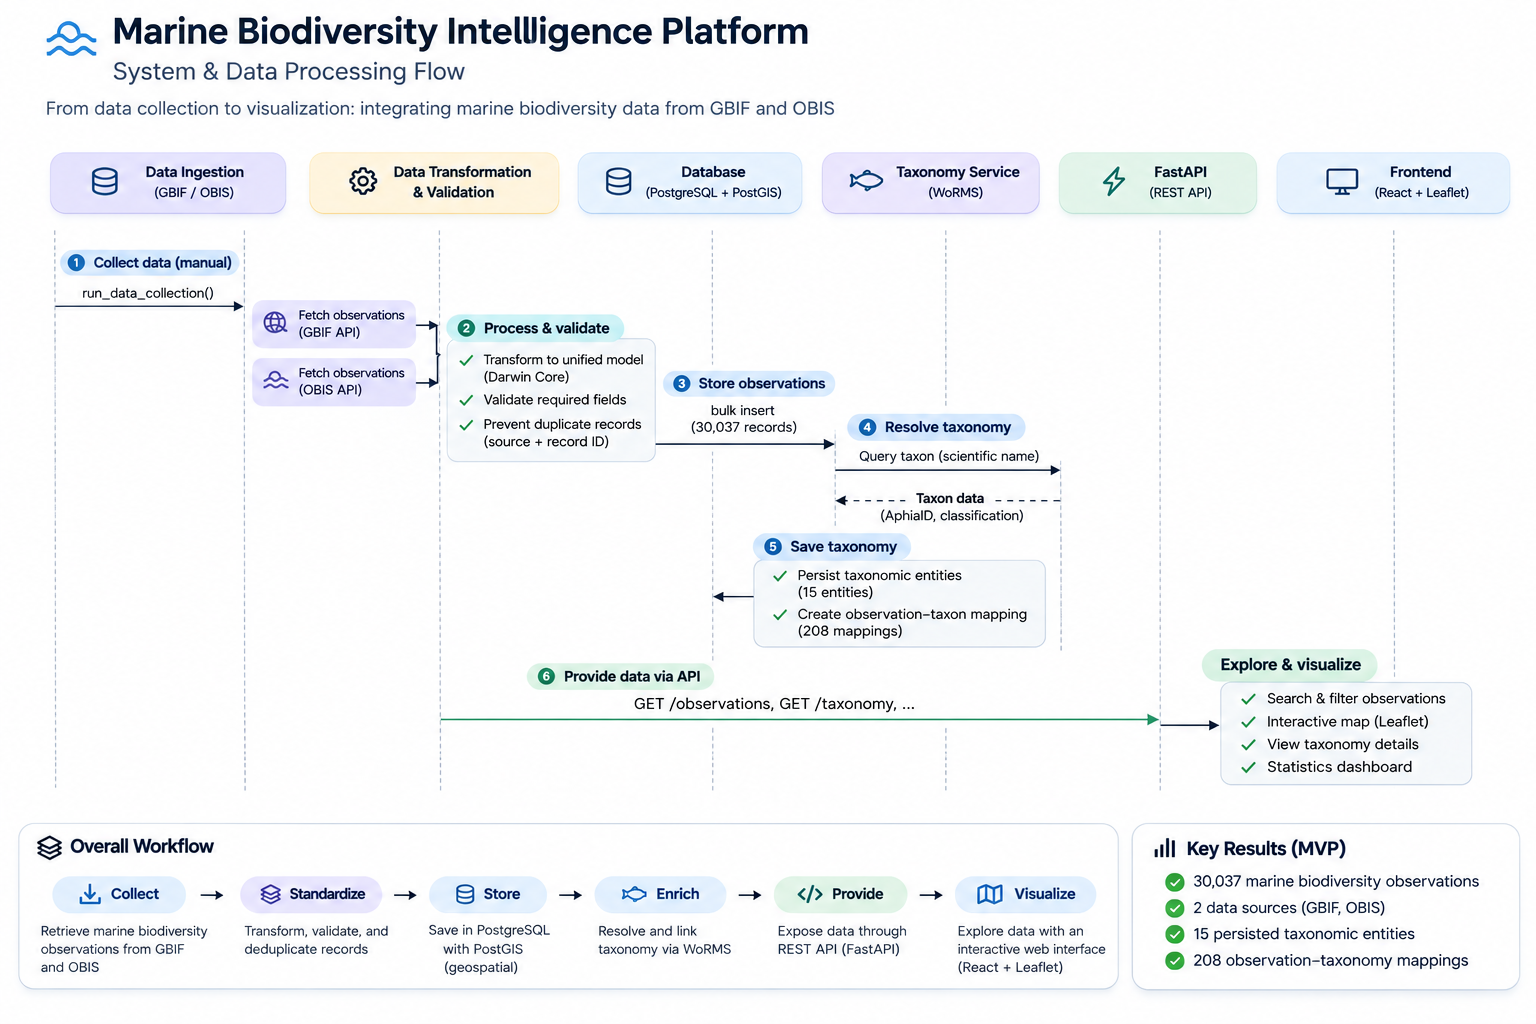
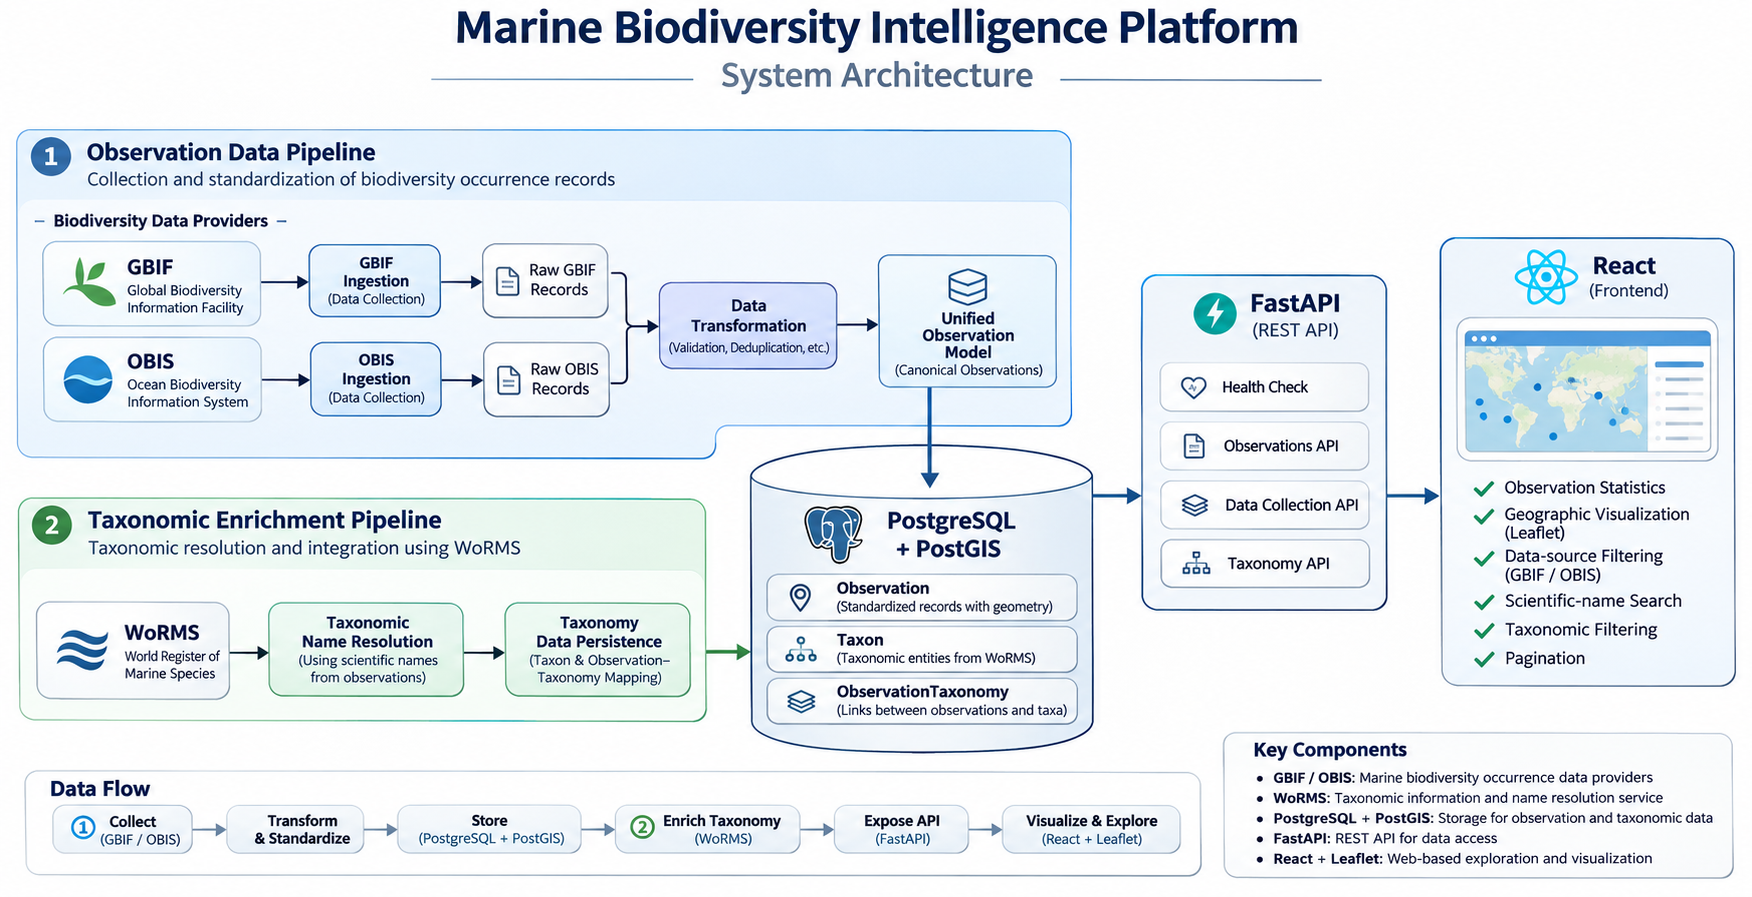
docs: update README and system architecture

Changed region(s): [[0.0, 0.0, 1.0, 0.9989], [0.6562, 0.2809, 0.7812, 0.3746], [0.0, 0.7492, 0.0312, 0.7804]]

diff --git a/README.md b/README.md
@@ -1,22 +1,20 @@
 # Marine Biodiversity Intelligence Platform
 
-An open-source platform for integrating, standardizing, exploring,
-and visualizing marine biodiversity observations.
+An open-source platform for integrating, standardizing, exploring, and visualizing marine biodiversity observations.
 
 ![System Architecture](docs/images/system-architecture.png)
-
 
 ## 1. Overview
 
 Marine biodiversity observations are distributed across multiple international databases, each with different data structures, identifiers, and taxonomic representations.
 
-The Marine Biodiversity Intelligence Platform addresses this fragmentation by providing a unified data integration pipeline.
+The Marine Biodiversity Intelligence Platform addresses this fragmentation by providing a unified data integration and visualization pipeline.
 
 The current implementation focuses on:
 
 - Collecting marine biodiversity observations from GBIF and OBIS.
 - Transforming source-specific records into a common observation model.
-- Preventing duplicate records through source-based identifiers.
+- Preventing duplicate records using source-based identifiers.
 - Storing observation and geospatial data in PostgreSQL with PostGIS.
 - Connecting observations with taxonomic information through WoRMS.
 - Exposing biodiversity data through REST APIs.
@@ -24,17 +22,21 @@ The current implementation focuses on:
 
 ## 2. Dataset Overview
 
-The current MVP database contains:
+The current MVP database contains the following records:
 
 | Metric | Value |
 |---|---:|
-| Total canonical observations | 30,037 |
+| Canonical observations | 30,037 |
 | GBIF raw records | 15,020 |
 | OBIS raw records | 15,020 |
 | Persisted taxonomic entities | 15 |
 | Observation-level taxonomy mappings | 208 |
 
-**Taxonomy data note:** The 15 taxonomic entities and 208 observation-level mappings represent a separately processed taxonomy subset, not the complete dataset of 30,037 observations.
+**Data interpretation note:**
+
+Raw records and canonical observations represent different stages of the data pipeline. Their counts are therefore reported separately.
+
+The 15 persisted taxonomic entities and 208 observation-level taxonomy mappings represent a separately processed subset of the observation dataset, not the complete collection of 30,037 canonical observations.
 
 ## 3. Key Features
 
@@ -42,10 +44,10 @@ The current MVP database contains:
 
 Integration of two major international biodiversity data providers:
 
-- GBIF — Global Biodiversity Information Facility
-- OBIS — Ocean Biodiversity Information System
+- **GBIF** — Global Biodiversity Information Facility
+- **OBIS** — Ocean Biodiversity Information System
 
-Source-specific ingestion services collect marine biodiversity observations and preserve their original records.
+Source-specific ingestion services collect marine biodiversity observations while preserving their original records.
 
 ### 3.2 Data Standardization
 
@@ -61,9 +63,9 @@ The pipeline includes:
 
 ### 3.3 Taxonomic Integration
 
-Integration with WoRMS (World Register of Marine Species) for taxonomic resolution.
+Integration with **WoRMS (World Register of Marine Species)** for taxonomic resolution.
 
-Implemented functionality includes:
+Implemented backend capabilities include:
 
 - Taxonomic name resolution.
 - AphiaID-based taxon identification.
@@ -71,6 +73,12 @@ Implemented functionality includes:
 - Observation-level taxonomy relationships.
 - Reuse of existing taxonomic records.
 - Duplicate mapping prevention.
+
+**Current implementation status:**
+
+Taxonomic integration and persistence are implemented and tested at the backend level. The current frontend also provides a taxonomic filter, but it covers only the subset of observations with persisted taxonomy mappings.
+
+Improving taxonomy coverage and refining the user interface to communicate the distinction between total observations and taxonomy-mapped observations are planned for future development.
 
 ### 3.4 Geospatial Visualization
 
@@ -80,9 +88,10 @@ The frontend provides:
 
 - Observation statistics.
 - Geographic observation visualization.
-- Taxonomic filtering.
 - Data-source filtering.
-- Observation search and pagination.
+- Scientific-name search.
+- Observation pagination.
+- Taxonomic filtering for records with available taxonomy mappings.
 
 ### 3.5 REST API
 
@@ -97,44 +106,50 @@ Interactive API documentation is available through Swagger UI and ReDoc.
 
 ## 4. Architecture
 
-The platform follows a modular data pipeline architecture.
+The platform follows a modular data integration architecture.
+
+The pipeline collects records from GBIF and OBIS, stores source-specific raw records, transforms them into a unified observation model, and makes the resulting data available through REST APIs and an interactive frontend.
+
+Taxonomic information is resolved and persisted through a separate WoRMS integration layer.
 
 ```text
         Biodiversity Data Providers
-                  |
-          +-------+-------+
-          |               |
-         GBIF            OBIS
-          |               |
-          v               v
-    GBIF Ingestion   OBIS Ingestion
-          |               |
-          v               v
-      Raw GBIF         Raw OBIS
-       Records          Records
-          |               |
-          +-------+-------+
-                  |
-                  v
-        Data Transformation
-                  |
-                  v
+                    |
+            +-------+-------+
+            |               |
+           GBIF            OBIS
+            |               |
+            v               v
+      GBIF Ingestion   OBIS Ingestion
+            |               |
+            v               v
+       Raw GBIF         Raw OBIS
+        Records          Records
+            |               |
+            +-------+-------+
+                    |
+                    v
+          Data Transformation
+                    |
+                    v
        Unified Observation Model
-                  |
-                  v
-        PostgreSQL + PostGIS
-                  |
-          +-------+-------+
-          |               |
-          v               v
-       FastAPI       Taxonomic Data
-          |           Integration
-          |             WoRMS
-          v
-      React Frontend
-          |
-          v
-    Leaflet Map Interface
+                    |
+                    v
+          PostgreSQL + PostGIS
+                    |
+            +-------+-------+
+            |               |
+            v               v
+          FastAPI      WoRMS Integration
+            |               |
+            |         Taxonomic Data
+            |          Persistence
+            |
+            v
+       React Frontend
+            |
+            v
+      Leaflet Map Interface
 ```
 
 ## 5. Technology Stack
@@ -195,6 +210,10 @@ marine-biodiversity-platform/
 │   └── package.json
 │
 ├── scripts/
+├── docs/
+│   └── images/
+│       └── system-architecture.png
+│
 ├── compose.yaml
 ├── .env.example
 ├── DEVELOPMENT_LOG.md
@@ -204,21 +223,30 @@ marine-biodiversity-platform/
 ## 7. Data Sources
 
 ### GBIF
-Global Biodiversity Information Facility
 
-https://www.gbif.org/
+**Global Biodiversity Information Facility**
+
+Provides access to global biodiversity occurrence data.
+
+Website: https://www.gbif.org/
 
 ### OBIS
-Ocean Biodiversity Information System
 
-https://obis.org/
+**Ocean Biodiversity Information System**
+
+Provides access to marine biodiversity occurrence data.
+
+Website: https://obis.org/
 
 ### WoRMS
-World Register of Marine Species
 
-https://www.marinespecies.org/
+**World Register of Marine Species**
 
-These services provide the biodiversity occurrence and taxonomic information used by the platform.
+Provides taxonomic information and marine species name resolution services.
+
+Website: https://www.marinespecies.org/
+
+These services provide the occurrence and taxonomic information integrated by the platform.
 
 ## 8. Testing
 
@@ -231,12 +259,15 @@ The project includes automated backend tests covering:
 - Batch processing.
 - WoRMS integration.
 - Taxonomy persistence.
+- Duplicate prevention.
 
 Run the test suite from the project root:
 
 ```bash
 PYTHONPATH=. pytest backend/tests/ -v
 ```
+
+The current backend test suite has **65 passing tests**.
 
 ## 9. Local Development
 
@@ -279,11 +310,17 @@ docker compose ps
 
 ### 9.4 Install Backend Dependencies
 
+Create and activate a virtual environment:
+
 ```bash
 python -m venv .venv
 
 source .venv/bin/activate
+```
 
+Install dependencies:
+
+```bash
 pip install -r backend/requirements.txt
 ```
 
@@ -322,23 +359,15 @@ Build the frontend:
 npm run build
 ```
 
-## 10. Development Documentation
-
-For implementation details, technical decisions, development progress, and verification results, see:
-
-[DEVELOPMENT_LOG.md](DEVELOPMENT_LOG.md)
-
-## 11. Future Improvements
+## 10. Future Improvements
 
 Potential future development directions include:
 
 - Expanded taxonomic coverage across the complete observation dataset.
-- Improved spatial filtering and geographic analysis.
+- Improved taxonomy filtering and user interface clarity.
+- Enhanced spatial filtering and geographic analysis.
 - Additional biodiversity data provider integrations.
 - Advanced biodiversity statistics and research-oriented visualizations.
-- Enhanced data quality assessment and provenance tracking.
+- Improved data quality assessment and provenance tracking.
 - Automated and scheduled data synchronization.
 
-## 12. License
-
-License to be determined.
